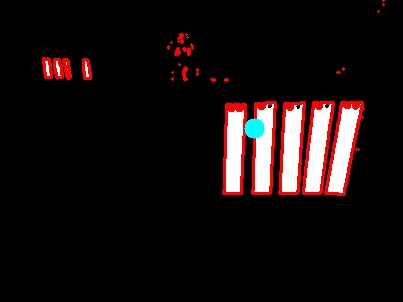
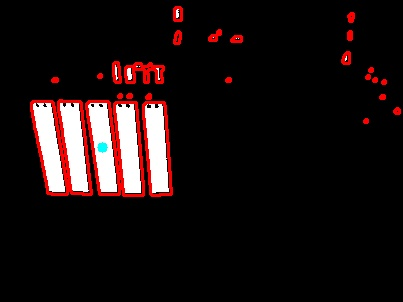
0200

diff --git a/tel_image/pick3.py b/tel_image/pick3.py
@@ -1,0 +1,60 @@
+import cv2
+import numpy as np
+
+def findMask(hsv_img):
+    lower_red_0 = np.array([0, 70, 0]) 
+    upper_red_0 = np.array([5, 255, 255])
+    lower_red_1 = np.array([175, 70, 0]) 
+    upper_red_1 = np.array([180, 255, 255])
+    red_mask0 = cv2.inRange(hsv_img, lower_red_0, upper_red_0)
+    red_mask1 = cv2.inRange(hsv_img, lower_red_1, upper_red_1)
+    red_mask = cv2.bitwise_or(red_mask0, red_mask1)
+
+    return red_mask
+
+kernel = np.ones((2,2),np.uint8)
+img = cv2.imread('./R.jpg')
+img = cv2.resize(img, (403, 302), interpolation=cv2.INTER_AREA)
+print(img.shape)
+blurred = cv2.pyrMeanShiftFiltering(img, 5, 5)
+hsv_img = cv2.cvtColor(blurred, cv2.COLOR_BGR2HSV)
+# red hsv range and mask on hsv_img
+red_mask = findMask(hsv_img)
+dilation = cv2.dilate(red_mask,kernel,iterations = 2)
+
+closing = cv2.morphologyEx(dilation, cv2.MORPH_GRADIENT, kernel)
+closing = cv2.morphologyEx(dilation, cv2.MORPH_CLOSE, kernel)
+
+#Getting the edge of morphology
+edge = cv2.Canny(closing, 105, 105)
+# _, contours,hierarchy = cv2.findContours(edge, cv2.RETR_TREE, cv2.CHAIN_APPROX_SIMPLE)
+
+(contour_contours, contour_h) = cv2.findContours(edge, cv2.RETR_EXTERNAL, cv2.CHAIN_APPROX_NONE)
+contour_i = red_mask.copy()
+contour_i = cv2.cvtColor(contour_i, cv2.COLOR_GRAY2BGR)
+cv2.drawContours(contour_i, contour_contours, -1, (0, 0, 255), 2)
+
+areas = [cv2.contourArea(c) for c in contour_contours]
+print(areas)
+
+temp = sorted(areas)[-5]
+print(temp)
+for i, element in enumerate(areas):
+    if element >= temp:
+        idx = i
+        break
+
+avg_x = []
+avg_y = []
+print(len(contour_contours))
+for cnt in contour_contours[i:i+5]:
+  for c in cnt:
+    avg_x.append(c[0][0])
+    avg_y.append(c[0][1])
+print(np.mean(avg_x))
+print(np.mean(avg_y))
+
+cv2.circle(contour_i, (int(np.mean(avg_x)), int(np.mean(avg_y))), 5, (255,255,0), -1)
+cv2.imshow("test_center", contour_i)
+cv2.imwrite("test_center.jpg", contour_i)
+cv2.waitKey(0)

diff --git a/tel_image/pick2.py b/tel_image/pick2.py
@@ -12,10 +12,12 @@ def findMask(hsv_img):
 
     return red_mask
 
+kernel = np.ones((2,2),np.uint8)
 img = cv2.imread('./R.jpg')
 img = cv2.resize(img, (403, 302), interpolation=cv2.INTER_AREA)
 print(img.shape)
-hsv_img = cv2.cvtColor(img, cv2.COLOR_BGR2HSV)
+blurred = cv2.pyrMeanShiftFiltering(img, 3, 3)
+hsv_img = cv2.cvtColor(blurred, cv2.COLOR_BGR2HSV)
 # red hsv range and mask on hsv_img
 red_mask = findMask(hsv_img)
 # print(red_mask.shape)
@@ -26,6 +28,7 @@ cv2.drawContours(contour_i, contour_contours, -1, (0, 0, 255), 2)
 
 avg_x = []
 avg_y = []
+print(len(contour_contours))
 for cnt in contour_contours:
   for c in cnt:
     avg_x.append(c[0][0])
